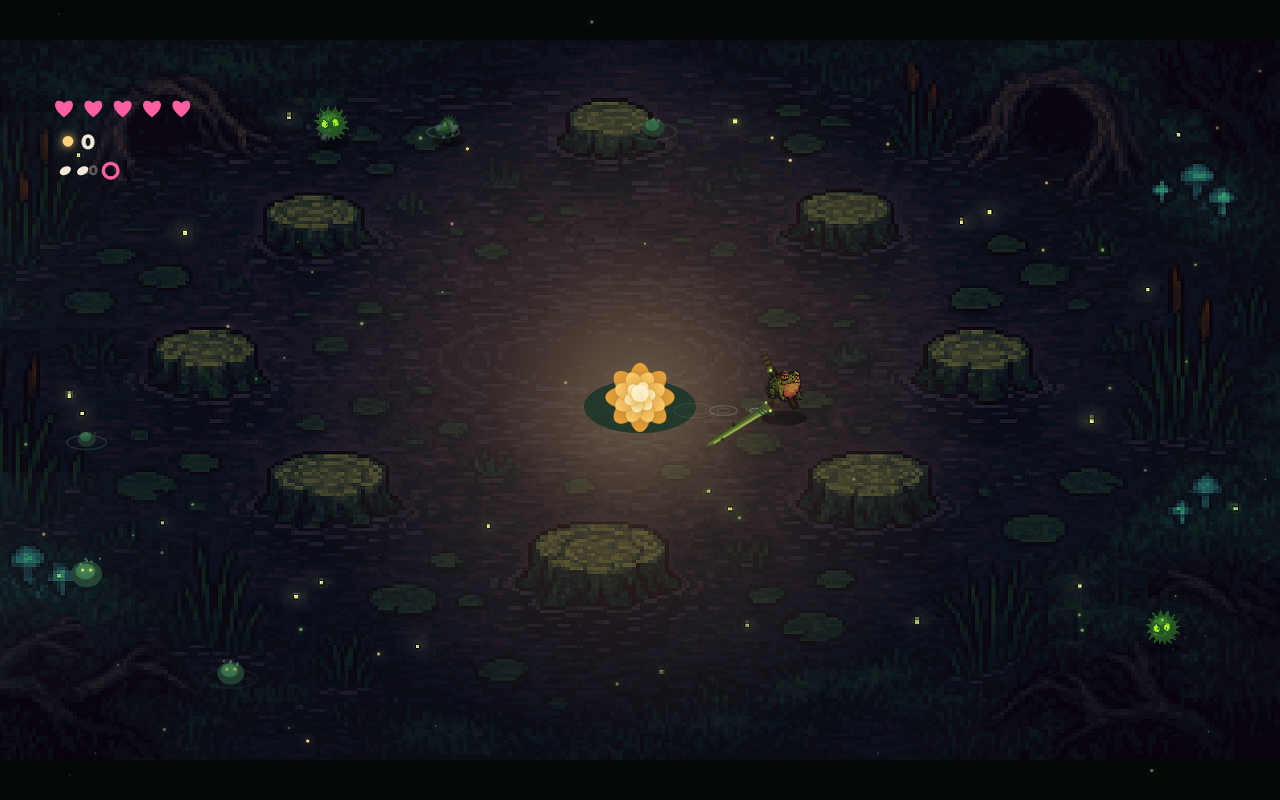
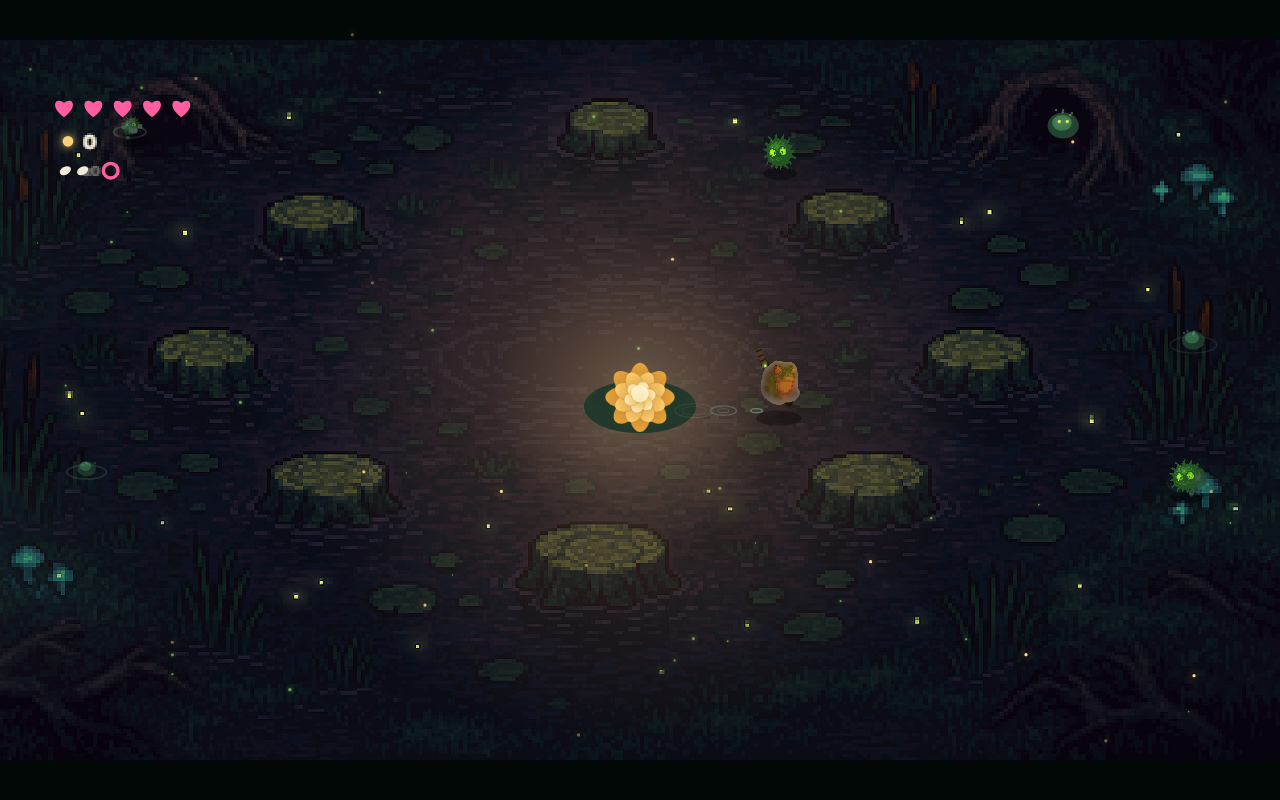
Gate round 1 (avg 5.5): bigger hero+rim, denser horde, enemy rim/waddle/recoil, authored attack tell
6-critic panel scored the build 5.5/10 avg (env praised, hero+enemies+VFX weak).
Applied consensus fixes:
- Frog 3.0->4.8 sprite scale + warm hero rim-glow (was too small/low-contrast: all 6).
- Enemies: muted colorize (less neon), softer-round regen prompt, bioluminescent rim +
  grounding + bigger + stronger waddle + hard flatten-recoil on hit (were camouflaged/stiff).
- Attack telegraph -> authored filling danger-zone gradient (was a debug-looking ring).
- Density 8->14 start, ramp /7, cap 52, cadence 12->7 (was too sparse for a horde).
Scores + open items logged in docs/GRADES.md. Tests 23/23, typecheck clean, headless QA no errors.

diff --git a/src/render/render.ts b/src/render/render.ts
@@ -511,14 +511,19 @@ function drawFrog(ctx: CanvasRenderingContext2D, w: World, fx: number, fy: numbe
   if (frogImg) drawBackKatana(ctx, FROG_RADIUS);
 
   if (frogImg) {
-    const h = FROG_RADIUS * 3.0;
+    const h = FROG_RADIUS * 4.8;                        // bigger hero silhouette (critics: ~1.6x up)
     const dw = h * (frogImg.width / frogImg.height);
+    const bx = -dw / 2, by = -h * 0.66;
     ctx.imageSmoothingEnabled = false;
-    ctx.drawImage(frogImg, -dw / 2, -h * 0.66, dw, h); // anchored near feet
+    // warm rim/hero-glow so the frog always pops off the stumps + water (value contrast)
+    ctx.shadowColor = 'rgba(255,206,130,0.95)'; ctx.shadowBlur = 16;
+    ctx.drawImage(frogImg, bx, by, dw, h);
+    ctx.shadowBlur = 0;
+    ctx.drawImage(frogImg, bx, by, dw, h);             // crisp body on top of the halo
     if (f.hurtFlashT > 0) {
       ctx.globalAlpha = Math.min(0.75, f.hurtFlashT * 5);
       ctx.globalCompositeOperation = 'lighter';
-      ctx.drawImage(frogImg, -dw / 2, -h * 0.66, dw, h);
+      ctx.drawImage(frogImg, bx, by, dw, h);
       ctx.globalCompositeOperation = 'source-over';
       ctx.globalAlpha = 1;
     }
@@ -688,6 +693,24 @@ function drawSwordAt(ctx: CanvasRenderingContext2D, w: World, time: number) {
   ctx.restore();
 }
 
+// Authored attack telegraph: a danger zone that FILLS as the enemy winds up (soft red-amber
+// disc + a crisp ring that snaps bright at the end) — reads as "incoming", not a debug gizmo.
+function drawAttackTell(ctx: CanvasRenderingContext2D, x: number, y: number, radius: number, p: number) {
+  const rr = radius * (0.55 + p * 0.45);
+  ctx.save();
+  const g = ctx.createRadialGradient(x, y, rr * 0.2, x, y, rr);
+  g.addColorStop(0, `rgba(255,120,60,${0.04 + p * 0.22})`);
+  g.addColorStop(0.75, `rgba(240,80,50,${0.03 + p * 0.14})`);
+  g.addColorStop(1, 'rgba(240,80,50,0)');
+  ctx.fillStyle = g;
+  ctx.beginPath(); ctx.ellipse(x, y, rr, rr * 0.55, 0, 0, Math.PI * 2); ctx.fill();
+  // filling wedge sweep (clock hand) so the timing reads
+  ctx.strokeStyle = `rgba(255,190,120,${0.35 + p * 0.55})`;
+  ctx.lineWidth = 1.5 + p * 2.5;
+  ctx.beginPath(); ctx.ellipse(x, y, rr, rr * 0.55, 0, -Math.PI / 2, -Math.PI / 2 + p * Math.PI * 2); ctx.stroke();
+  ctx.restore();
+}
+
 // ---------- enemies ----------
 function drawEnemy(ctx: CanvasRenderingContext2D, e: Enemy, alpha: number, time: number) {
   const data = ENEMIES[e.kind];
@@ -726,35 +749,31 @@ function drawEnemy(ctx: CanvasRenderingContext2D, e: Enemy, alpha: number, time:
   // world-space windup telegraph. Graybox blob below is the fallback until the image loads.
   const sImg = (e.flashT > 0 && img('blobbitHit')) ? img('blobbitHit') : img('sludgeling');
   if (sImg) {
-    // penguin-waddle: rock side-to-side + little hops while closing on the player (Ian's vision)
+    // bouncy waddle: rock + hop + per-step squish while closing on the player (critics: too stiff)
     const moving = e.state === 'seek' && Math.hypot(e.vx, e.vy) > 10;
     const wadT = time * 9 + e.seed * 20;
     if (moving) {
-      const wadHop = Math.abs(Math.sin(wadT)) * r * 0.18;
-      ctx.rotate(Math.sin(wadT) * 0.14);           // rock
+      const wadHop = Math.abs(Math.sin(wadT)) * r * 0.3;
+      ctx.rotate(Math.sin(wadT) * 0.2);            // rock
       ctx.translate(0, -wadHop);                    // hop
-      ctx.scale(1 + Math.cos(wadT * 2) * 0.05, 1 - Math.cos(wadT * 2) * 0.05); // squish per step
+      ctx.scale(1 + Math.cos(wadT * 2) * 0.09, 1 - Math.cos(wadT * 2) * 0.09); // squish per step
     }
-    const h = r * 2.7;
+    if (e.flashT > 0) ctx.scale(1.28, 0.72);        // hard flatten recoil on hit (juice)
+    const h = r * 3.15;                             // plumper/bigger (critics: read as threats)
     const dw = h * (sImg.width / sImg.height);
     ctx.imageSmoothingEnabled = false;
+    // soft bioluminescent rim so the slime separates from the dark water + green foliage
+    ctx.shadowColor = 'rgba(150,240,150,0.75)'; ctx.shadowBlur = 7;
+    ctx.drawImage(sImg, -dw / 2, -h * 0.6, dw, h);
+    ctx.shadowBlur = 0;
     ctx.drawImage(sImg, -dw / 2, -h * 0.6, dw, h);
     if (e.flashT > 0) {
-      ctx.globalAlpha = 0.85; ctx.globalCompositeOperation = 'lighter';
+      ctx.globalAlpha = 0.9; ctx.globalCompositeOperation = 'lighter';
       ctx.drawImage(sImg, -dw / 2, -h * 0.6, dw, h);
       ctx.globalCompositeOperation = 'source-over'; ctx.globalAlpha = 1;
     }
     ctx.restore();
-    if (e.state === 'windup') {
-      const p = e.stateF / data.atkWindup;
-      ctx.save();
-      ctx.strokeStyle = `rgba(255,140,70,${0.2 + p * 0.55})`;   // warm danger tell (not pink)
-      ctx.lineWidth = 3;
-      ctx.beginPath();
-      ctx.arc(e.atkX, e.atkY, data.atkRadius * (0.5 + p * 0.5), 0, Math.PI * 2);
-      ctx.stroke();
-      ctx.restore();
-    }
+    if (e.state === 'windup') drawAttackTell(ctx, e.atkX, e.atkY, data.atkRadius, e.stateF / data.atkWindup);
     return;
   }
 
@@ -827,16 +846,9 @@ function drawEnemy(ctx: CanvasRenderingContext2D, e: Enemy, alpha: number, time:
 
   ctx.restore();
 
-  // windup strike telegraph (honest ground truth) — warm amber danger, not pink
+  // windup strike telegraph (honest ground truth) — authored filling danger zone
   if (e.state === 'windup') {
-    const p = e.stateF / data.atkWindup;
-    ctx.save();
-    ctx.strokeStyle = `rgba(255,140,70,${0.2 + p * 0.55})`;
-    ctx.lineWidth = 3;
-    ctx.beginPath();
-    ctx.arc(e.atkX, e.atkY, data.atkRadius * (0.5 + p * 0.5), 0, Math.PI * 2);
-    ctx.stroke();
-    ctx.restore();
+    drawAttackTell(ctx, e.atkX, e.atkY, data.atkRadius, e.stateF / data.atkWindup);
   }
 }
 

diff --git a/src/sim/spawner.ts b/src/sim/spawner.ts
@@ -11,7 +11,7 @@ import { spawnEnemy } from './world';
 const TELEGRAPH_FRAMES = 60;
 
 function targetCount(elapsed: number): number {
-  return Math.min(40, 8 + Math.floor(elapsed / 12));
+  return Math.min(52, 14 + Math.floor(elapsed / 7));   // denser horde (critics: too sparse)
 }
 
 function pickKind(w: World): EnemyKind {
@@ -42,9 +42,9 @@ export function updateSpawner(w: World): void {
   const pending = w.enemies.length + w.telegraphs.length;
   if (pending >= want || pending >= ENEMY_CAP) return;
 
-  // stagger spawns: at most one telegraph per 12 ticks
+  // stagger spawns: at most one telegraph per 7 ticks (fills the arena faster)
   w.spawnAccum++;
-  if (w.spawnAccum < 12) return;
+  if (w.spawnAccum < 7) return;
   w.spawnAccum = 0;
 
   // pick an edge-ring point away from the frog

diff --git a/tools/bg_clean.py b/tools/bg_clean.py
@@ -93,7 +93,7 @@ def dehalo(path: str, sat_max: float = 0.20, val_min: float = 0.22) -> None:
     print(f"dehaloed {Path(path).name}")
 
 
-def colorize_green(path: str, val_lift: float = 0.30) -> None:
+def colorize_green(path: str, val_lift: float = 0.26) -> None:
     """Recolor a (dark) blob sprite into a BRIGHT TRANSLUCENT GREEN slime. gpt-image-1 keeps
     drawing the swamp's enemies black no matter the prompt; the SHAPE + eyes are good, only the
     hue is wrong. Map every opaque pixel onto a green ramp: brightness is lifted (so even near-black
@@ -110,8 +110,8 @@ def colorize_green(path: str, val_lift: float = 0.30) -> None:
                 continue
             _hh, _ss, vv = colorsys.rgb_to_hsv(r / 255, g / 255, b / 255)
             nv = val_lift + (1 - val_lift) * vv          # lift darks into visible green
-            hue = 0.34 - 0.12 * vv                        # dark=emerald(.34) -> bright=lime/yellow(.22)
-            sat = 0.55 + 0.35 * vv                        # brighter = more saturated jelly
+            hue = 0.36 - 0.09 * vv                        # emerald(.36) -> soft lime(.27), less yellow-neon
+            sat = 0.40 + 0.28 * vv                        # muted jelly (critics: drop saturation, not neon)
             nr, ng, nb = colorsys.hsv_to_rgb(hue, sat, nv)
             px[x, y] = (int(nr * 255), int(ng * 255), int(nb * 255), a)
     im.save(path)

diff --git a/tools/assetgen.py b/tools/assetgen.py
@@ -57,11 +57,12 @@ FROG = (
 # ---- ENEMY: cute, plump, squishy, GREEN. NOT black. --------------------------
 BLOBBIT = (
     "A CUTE round kawaii SLIME monster, like a happy slime from Slime Rancher or the classic Dragon "
-    "Quest slime: a plump glossy DROPLET-shaped blob of BRIGHT TRANSLUCENT GREEN jelly (lime and "
-    "emerald), wobbly and squishy, that you can partly see through, with tiny bubbles and glowing "
-    "spore flecks suspended inside. Two big shiny happy dark eyes with white highlights, a tiny "
-    "cute smiling mouth, a bright glossy highlight on top. Adorable, wholesome, bouncy. IMPORTANT: "
-    "BRIGHT GREEN and glossy — absolutely NOT black, NOT dark, NOT scary, NOT a demon, NO horns"
+    "Quest slime: a plump glossy SMOOTH ROUNDED gumdrop/teardrop blob of soft mossy-green jelly, "
+    "wobbly and squishy, partly translucent, with tiny bubbles and faint glowing spore flecks inside. "
+    "Two big soft glowing eyes, a tiny cute mouth, a gentle glossy highlight on top. Adorable and "
+    "wholesome. CRUCIAL SILHOUETTE: perfectly SMOOTH and ROUND — absolutely NO spikes, NO points, NO "
+    "urchin bumps, NO horns; a simple soft blob outline. Muted natural swamp green (not neon), sits "
+    "calmly in a moody palette — NOT black, NOT dark, NOT scary"
 )
 
 KATANA = (

diff --git a/docs/GRADES.md b/docs/GRADES.md
@@ -4,6 +4,26 @@ Honest, externally-verifiable gate status. No self-graded passes. See `design/11
 
 ---
 
+## JUDGED QUALITY LOOP (Ian directive: don't stop till avg ≥9.0, no judge <8)
+
+### Round 1 — 2026-07-08 (after art overhaul + combo/font pass)
+6-critic panel (4 judges w/ goal+bible, 2 blind). Screenshots: pond/heavy/carnage/motion.
+
+| Critic | Score | Headline |
+|---|---|---|
+| Judge 1 — Art director | 5.0 | Env premium; enemies off-model spiky neon; hero muddy+small; VFX placeholder |
+| Judge 2 — Animation | 5.5 | Frog too small to read anim; enemies stiff; hop touchdown ripple good |
+| Judge 3 — Game feel | 5.5 | Enemies camouflage; swing faintest thing on screen; too empty |
+| Judge 4 — Creative dir | 6.5 | Env $15-game; hero too small/dark; no combat verb in stills |
+| Blind 1 | 4.5 | Frog near-invisible; enemies clip-art; too dark; HUD placeholder |
+| Blind 2 | 6.0 | Pretty; frog camouflages into stumps; zero enemy variety; sparse |
+| **AVERAGE** | **5.5** | Backgrounds carry it; hero+enemies+combat VFX drag it down |
+
+**Fixes applied this round:** frog 3.0→4.8 + warm hero rim; enemies muted colorize + softer regen + biolum rim + grounding + bigger + stronger waddle/hit-recoil; swing crescent bright + white cut-line; attack telegraph → authored filling danger-zone (was debug ring); density 8→14 start/cap 52/cadence 12→7.
+**Still OPEN:** enemy silhouette still spiky (gpt-image-1 refuses round → go PROCEDURAL slime next); re-verify blink/croak/walk at new size; brightness/contrast for thumbnail; HUD pip clarity; enemy variety; capsule frame w/ active slash.
+
+---
+
 ## Phase 1 — The Swing Test  ·  STATUS: CORE PROVEN, GATE NOT PASSED
 
 *One frog, one stick, the sludge trio, a graybox pond, zero rewards.*
